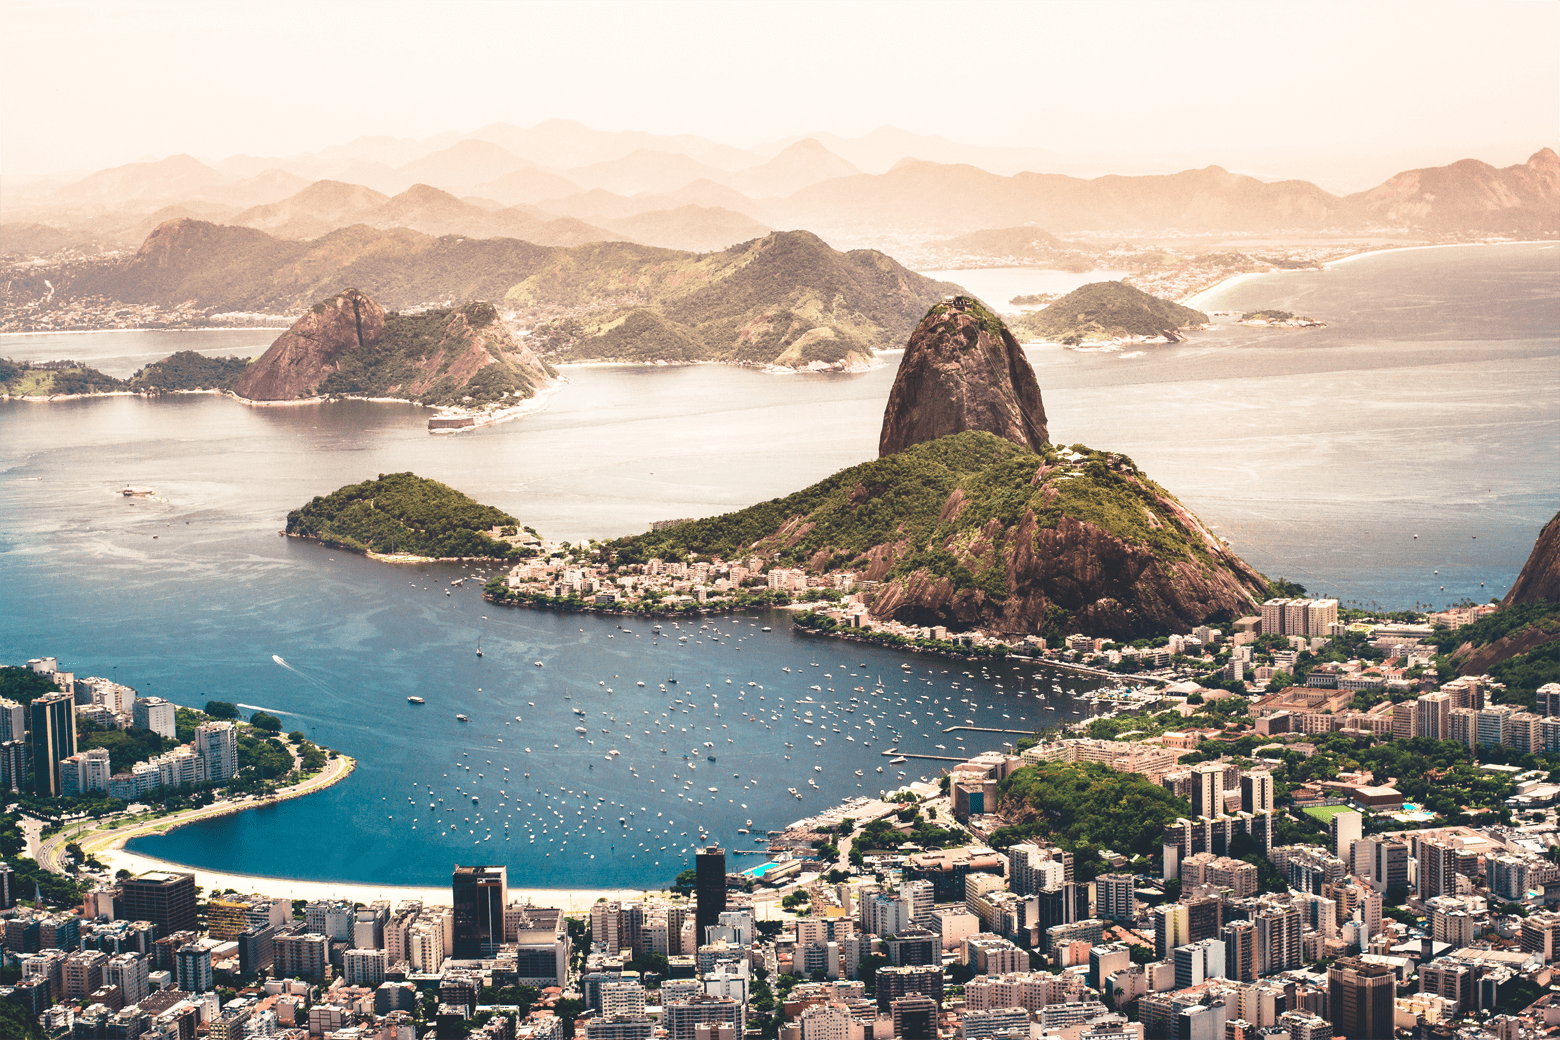
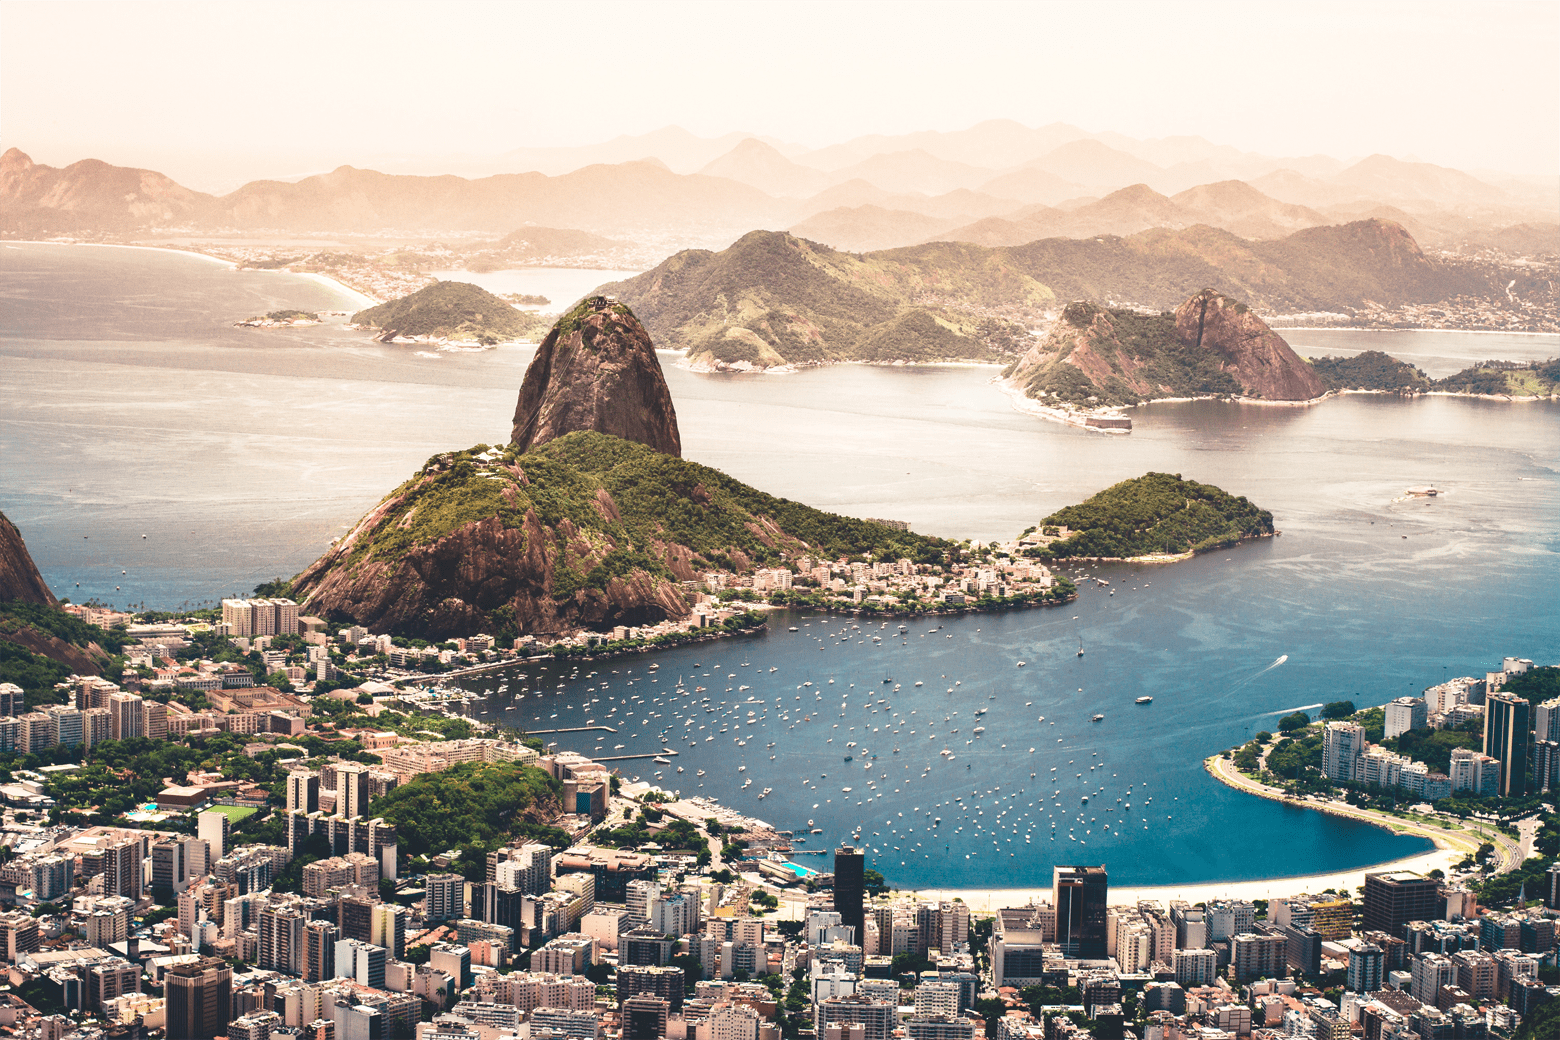
style: 修改了部分图片及place-image元素的tranform属性

diff --git a/scss/layouts/_home.scss b/scss/layouts/_home.scss
@@ -184,7 +184,7 @@ $place-introduction-content-transition-duration: .6s;
     }
 
     .place-image {
-      transform: translateX(-48%);
+      transform: translateX(-21%);
     }
 
     .order-number {
@@ -203,13 +203,13 @@ $place-introduction-content-transition-duration: .6s;
 
     &.click {
       .place-image {
-        transform: translateX(7%) scale(1.2);
+        transform: translate(7%, -2%) scale(1.2);
         transition-delay: 0s;
       }
     }
 
     .place-image {
-      transform: translateX(-22%);
+      transform: translate(-22%, -7%);
     }
 
     .order-number {
@@ -228,13 +228,13 @@ $place-introduction-content-transition-duration: .6s;
 
     &.click {
       .place-image {
-        transform: translateX(0) scale(1.2);
+        transform: translate(0, -8%) scale(1.2);
         transition-delay: 0s;
       }
     }
 
     .place-image {
-      transform: translateX(-43%);
+      transform: translate(-22%, -14%);
     }
 
     .order-number {

diff --git a/css/main.css b/css/main.css
@@ -172,7 +172,7 @@
 }
 
 .home .Paris .place-image {
-  transform: translateX(-48%);
+  transform: translateX(-21%);
 }
 
 .home .Paris .order-number {
@@ -190,12 +190,12 @@
 }
 
 .home .Dubai.click .place-image {
-  transform: translateX(7%) scale(1.2);
+  transform: translate(7%, -2%) scale(1.2);
   transition-delay: 0s;
 }
 
 .home .Dubai .place-image {
-  transform: translateX(-22%);
+  transform: translate(-22%, -7%);
 }
 
 .home .Dubai .order-number {
@@ -213,12 +213,12 @@
 }
 
 .home .Brazil.click .place-image {
-  transform: translateX(0) scale(1.2);
+  transform: translate(0, -8%) scale(1.2);
   transition-delay: 0s;
 }
 
 .home .Brazil .place-image {
-  transform: translateX(-43%);
+  transform: translate(-22%, -14%);
 }
 
 .home .Brazil .order-number {
